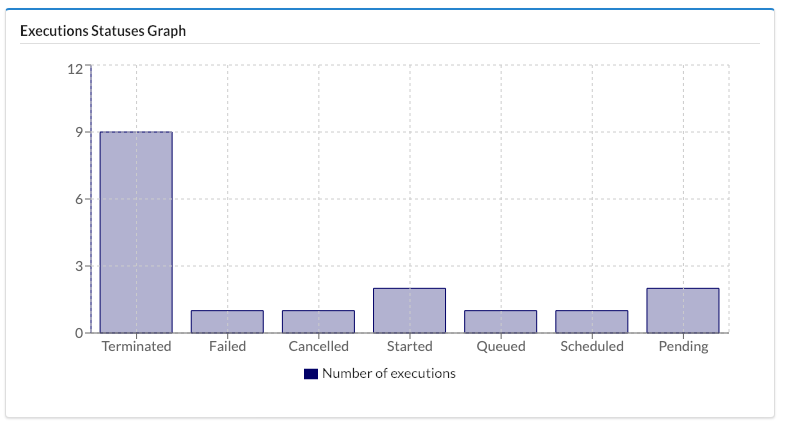
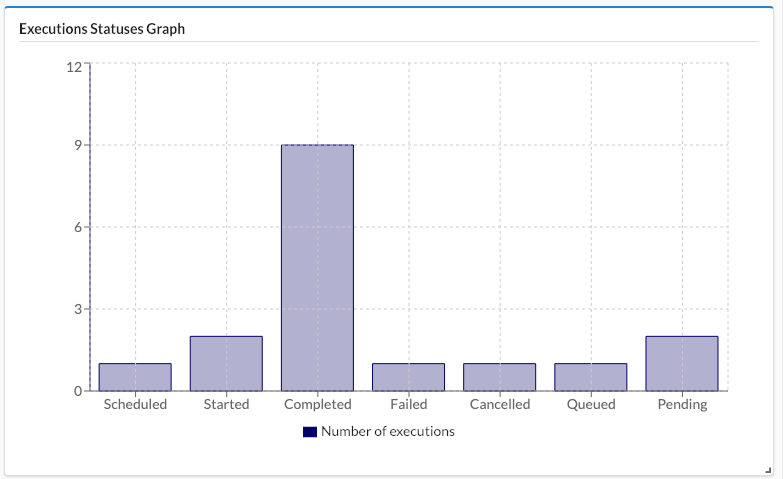
PR fixes

diff --git a/app/components/basic/graphs/Graph.js b/app/components/basic/graphs/Graph.js
@@ -311,24 +311,27 @@ export default class Graph extends Component {
                     {chartElements}
                     <CartesianGrid strokeDasharray={STROKE_DASHARRAY} />
                     {
-                        this.props.showXAxis && IS_KEY_TIME &&
-                        <XAxis dataKey={this.props.xDataKey}
-                               tickFormatter={xAxisDataFormatter}
-                               tick={this.props.xAxisTick} />
+                        this.props.showXAxis &&
+                        IS_KEY_TIME
+                        ?
+                            <XAxis dataKey={this.props.xDataKey}
+                                   tickFormatter={xAxisDataFormatter}
+                                   tick={this.props.xAxisTick} />
+                        :
+                            <XAxis dataKey={this.props.xDataKey} />
                     }
                     {
-                        this.props.showXAxis && !IS_KEY_TIME && <XAxis dataKey={this.props.xDataKey} />
-                    }
-                    {
-                        this.props.showTooltip && IS_KEY_TIME &&
-                        <Tooltip isAnimationActive={false}
-                                 formatter={VALUE_FORMATTER}
-                                 labelFormatter={xAxisDataFormatter}
-                                 cursor={false}/>
-                    }
-                    {
-                        this.props.showTooltip && !IS_KEY_TIME &&
-                        <Tooltip isAnimationActive={false} formatter={VALUE_FORMATTER} cursor={false}/>
+                        this.props.showTooltip &&
+                        IS_KEY_TIME
+                        ?
+                            <Tooltip isAnimationActive={false}
+                                     formatter={VALUE_FORMATTER}
+                                     labelFormatter={xAxisDataFormatter}
+                                     cursor={false}/>
+                        :
+                            <Tooltip isAnimationActive={false}
+                                     formatter={VALUE_FORMATTER}
+                                     cursor={false}/>
                     }
                     {this.props.showLegend && <Legend />}
                     {this.props.showBrush &&  <Brush />}

diff --git a/widgets/executionsStatus/src/widget.js b/widgets/executionsStatus/src/widget.js
@@ -27,9 +27,8 @@ Stage.defineWidget({
         if (_.isEmpty(data) || _.isEmpty(data.items)) {
             return <Stage.Basic.Loading/>;
         }
-        const status_data = _.groupBy(data.items, 'status_display');
-        const formatted_data = _.map(status_data,
-            (executions, status) => ({'status': _.startCase(status), 'number_of_executions': executions.length}));
+        const formatted_data = _.map(data.items, (status_sum) => ({'status': _.startCase(status_sum.status_display),
+            'number_of_executions': status_sum.executions}));
         let {Graph} = Stage.Basic.Graphs;
         const charts = [{name:'number_of_executions', label:'Number of executions', axisLabel:'status'}];
         return (<Graph type={Graph.BAR_CHART_TYPE} data={formatted_data} charts={charts} xDataKey='status' />);
